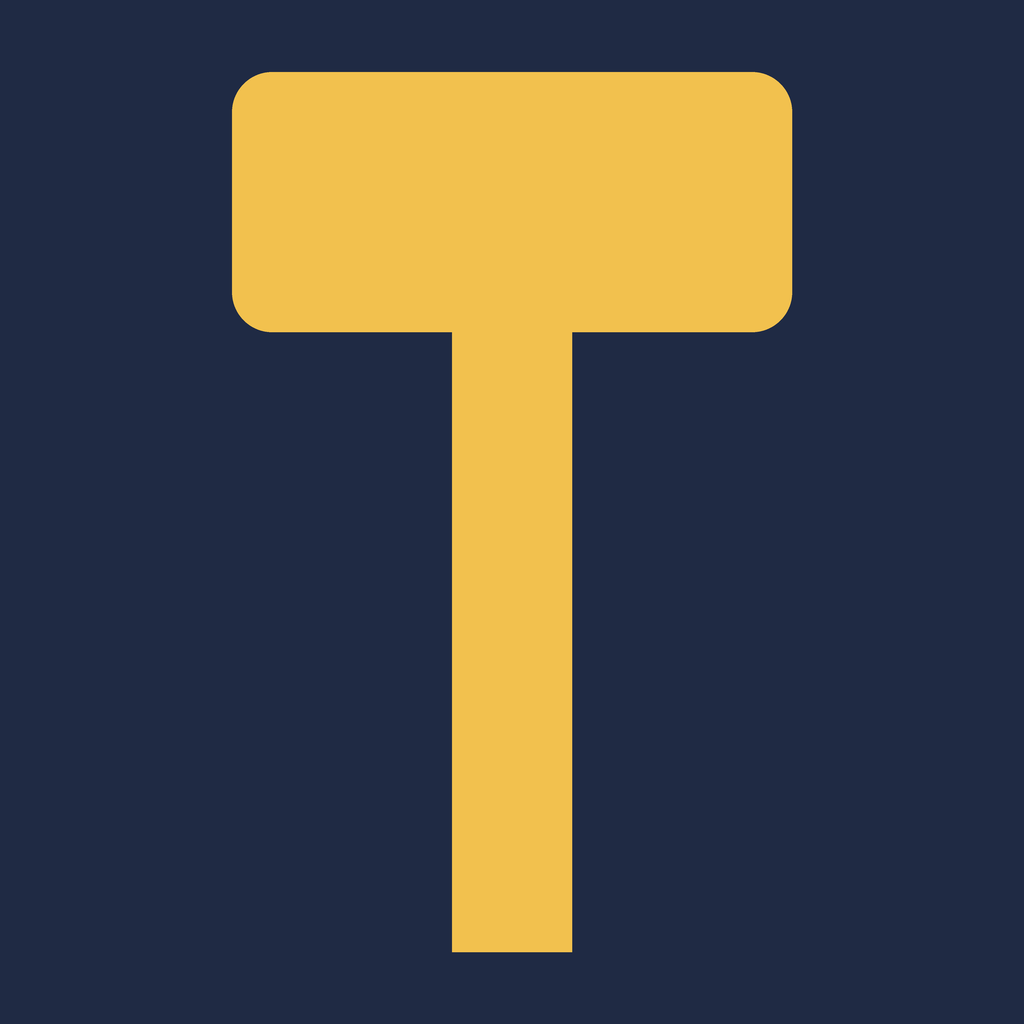
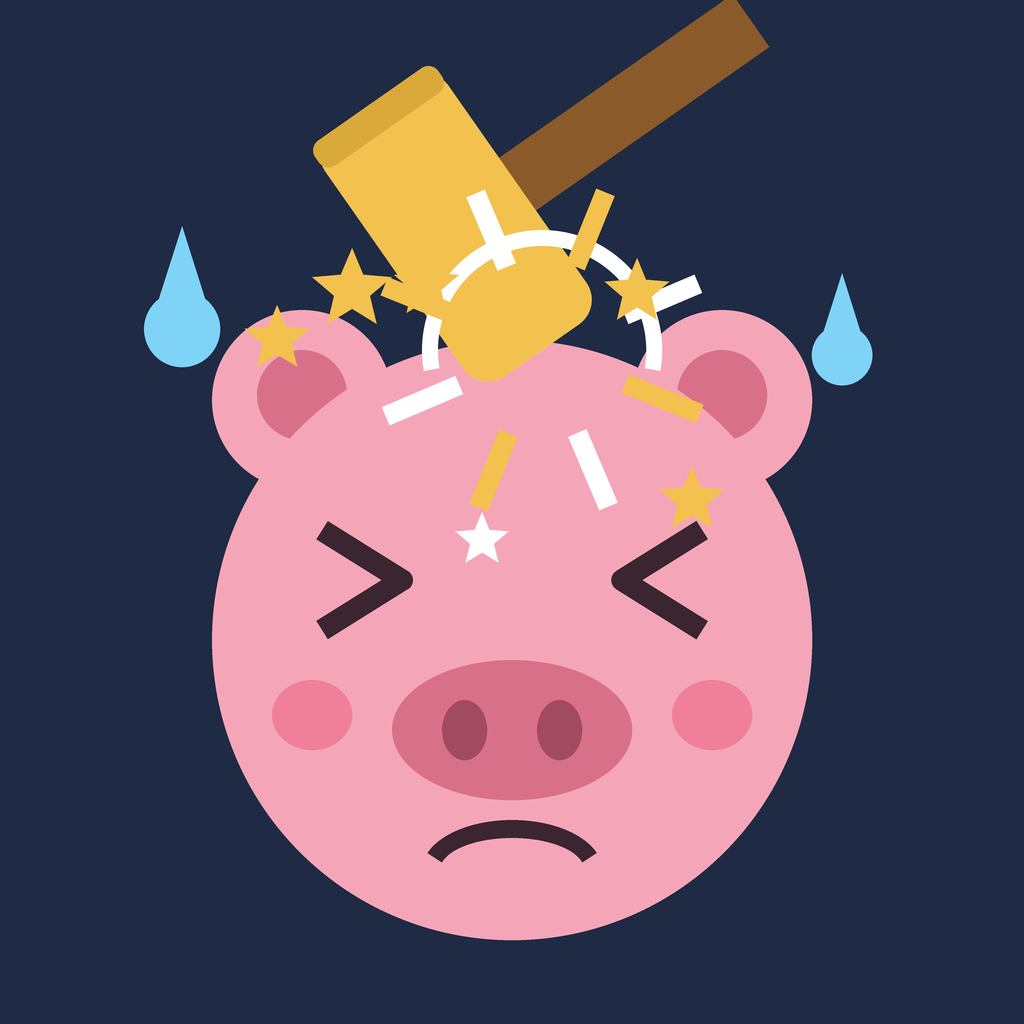
feat: 임시 앱 아이콘을 망치에 맞는 돼지 일러스트로 교체 (#66)

diff --git a/docs/RELEASE_CHECKLIST.md b/docs/RELEASE_CHECKLIST.md
@@ -50,7 +50,7 @@ git config --global merge.unityyamlmerge.driver '"C:/Program Files/Unity/Hub/Edi
 - [x] Product Name = `NCAIClicker`, Company Name = `NCAITeamTwo` 설정 완료
   - 저장 경로가 `%USERPROFILE%/AppData/LocalLow/NCAITeamTwo/NCAIClicker/` 로 정해졌다. **바꾸려면 세이브가 생기기 전인 지금뿐이다** — 저장 기능이 붙은 뒤에 바꾸면 기존 세이브를 못 읽는다
 - [x] 게임명 확정 — `NCAIClicker`
-- [x] 아이콘 (Default Icon) — `Assets/Materials/AppIcon.png` 1024×1024, 임시 단색+망치 실루엣 (#66, 2026-09-16). VARCO 망치 렌더가 나오면 같은 파일을 교체한다
+- [x] 아이콘 (Default Icon) — `Assets/Materials/AppIcon.png` 1024×1024, 임시 플랫 일러스트(망치에 맞는 돼지) (#66, 2026-09-16). VARCO 망치 렌더가 나오면 같은 파일을 교체한다
 - [x] 기본 PC 창: Windowed, 1920×1080, native resolution 사용 해제 (ProjectSetup 적용)
 - [x] Resizable Window 및 Alt+Enter 전체화면 전환 해제. 다른 화면 비율·작은 모니터에서 16:9 유지와 HUD 배치는 최종 빌드에서 별도 검증한다
 - [x] Scripting Backend: Mono (기본). IL2CPP는 빌드가 훨씬 오래 걸려 7일 일정에 불리하다. 성능 문제가 실측으로 확인되기 전에는 바꾸지 않는다 (8.2 에서 확인, 2026-09-16)

diff --git a/docs/TECH_NOTES/project-setup.md b/docs/TECH_NOTES/project-setup.md
@@ -33,7 +33,7 @@ flowchart LR
 
 ## 알려진 한계
 
-- 폰트 파일은 8.1(#42) 에서 배치한다. 아이콘은 임시 실루엣이다 — VARCO 망치 렌더가 나오면 `Assets/Materials/AppIcon.png` 를 같은 이름으로 교체하면 된다 (#66).
+- 폰트 파일은 8.1(#42) 에서 배치한다. 아이콘은 임시 플랫 일러스트(망치에 맞는 돼지)다 — VARCO 망치 렌더가 나오면 `Assets/Materials/AppIcon.png` 를 같은 이름으로 교체하면 된다 (#66).
 
 ## 갱신 이력
 
